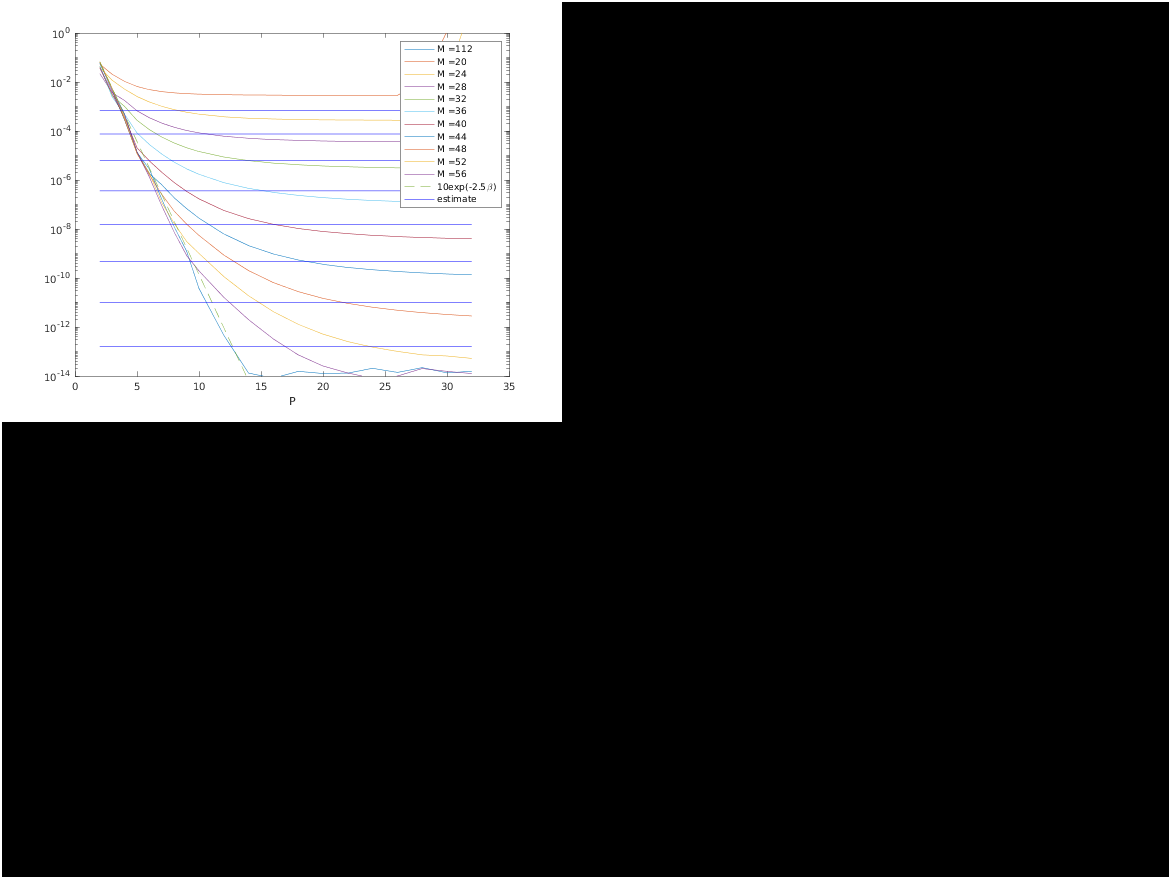
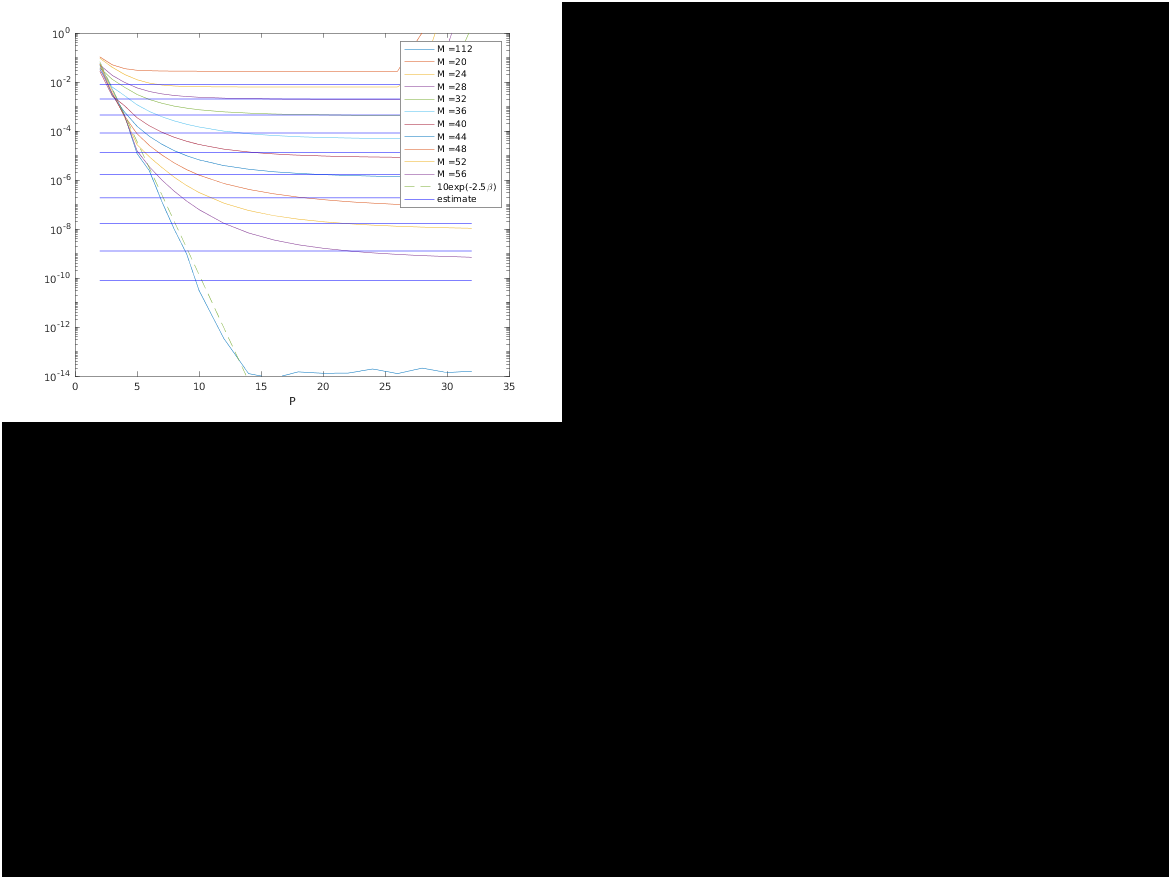
imgs

Changed region(s): [[0.0615, 0.0614, 0.3997, 0.3686], [0.3382, 0.3993, 0.3997, 0.43], [0.1845, 0.3686, 0.2152, 0.3993]]

diff --git a/SE_Stokes_run/SE3P_Stokes/P_error.m b/SE_Stokes_run/SE3P_Stokes/P_error.m
@@ -17,7 +17,7 @@ opt.box = box;
 
 M0 = 128; % Set M0=M/L, the restu * 1+ is automatic
 opt.M = M0*opt.box;
-opt.xi = 15;
+opt.xi = 20;
 opt.betaP = 2.5;
 opt.c = sqrt(0.91);
 %opt.window = 'kaiser_exact';
